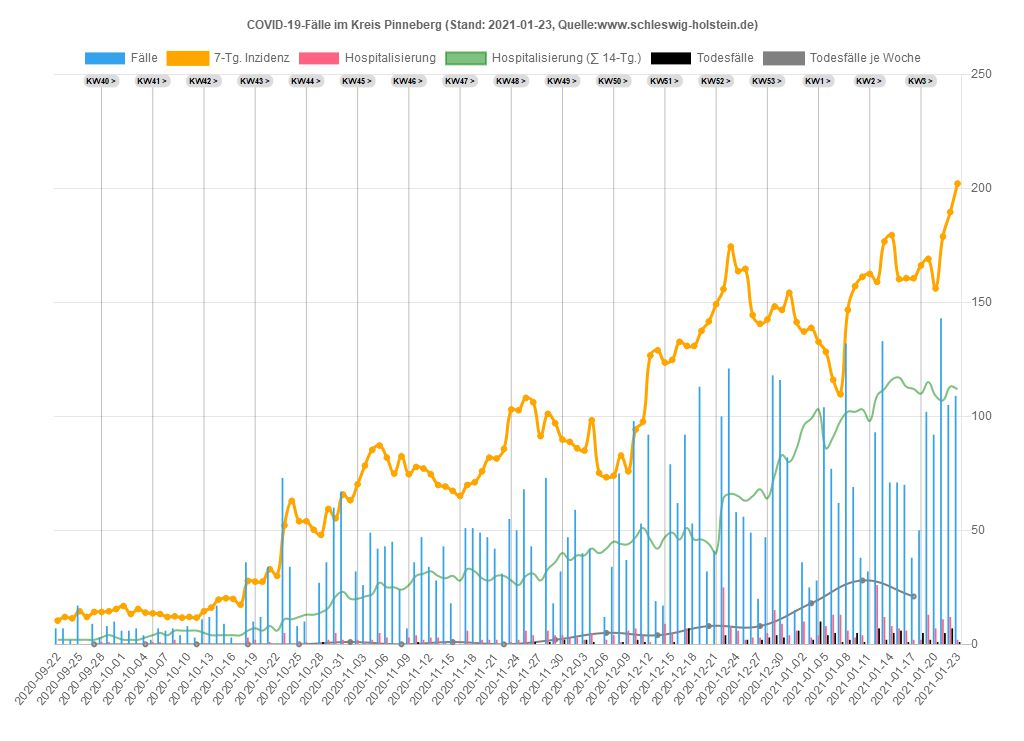
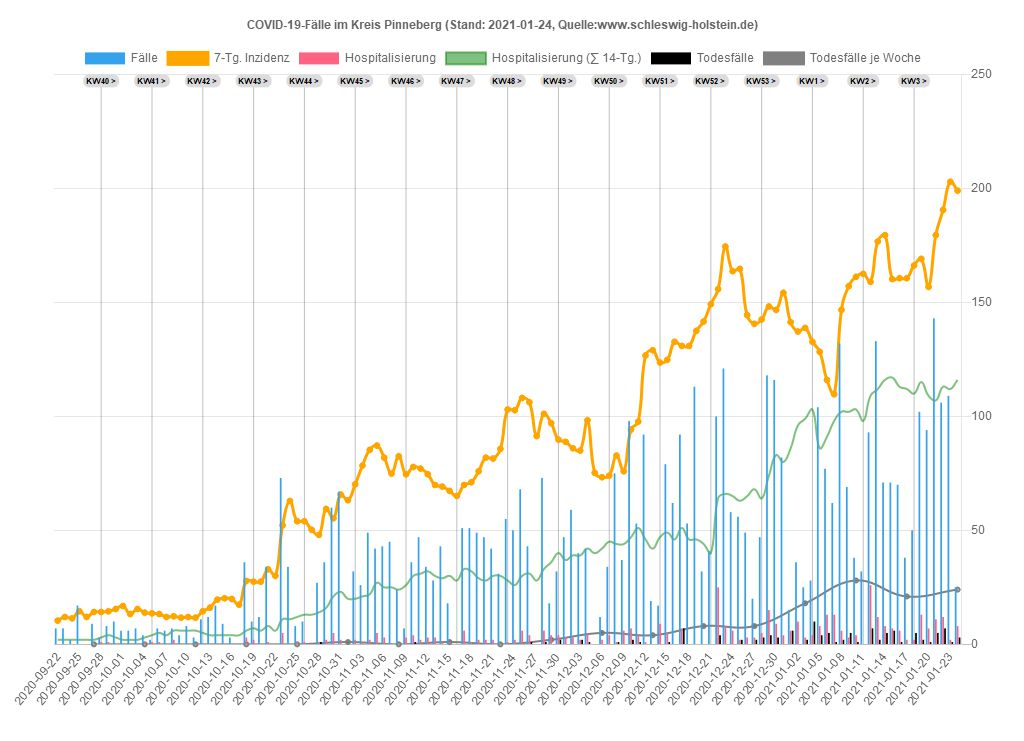
24.01.2021 20:33:32,01

Changed region(s): [[0.0312, 0.0931, 0.9375, 0.9622]]

diff --git a/sh/Data_SH.js b/sh/Data_SH.js
@@ -1,20 +1,20 @@
 var chdata={
-labels: ["2020-09-22","2020-09-23","2020-09-24","2020-09-25","2020-09-26","2020-09-27","2020-09-28","2020-09-29","2020-09-30","2020-10-01","2020-10-02","2020-10-03","2020-10-04","2020-10-05","2020-10-06","2020-10-07","2020-10-08","2020-10-09","2020-10-10","2020-10-11","2020-10-12","2020-10-13","2020-10-14","2020-10-15","2020-10-16","2020-10-17","2020-10-18","2020-10-19","2020-10-20","2020-10-21","2020-10-22","2020-10-23","2020-10-24","2020-10-25","2020-10-26","2020-10-27","2020-10-28","2020-10-29","2020-10-30","2020-10-31","2020-11-01","2020-11-02","2020-11-03","2020-11-04","2020-11-05","2020-11-06","2020-11-07","2020-11-08","2020-11-09","2020-11-10","2020-11-11","2020-11-12","2020-11-13","2020-11-14","2020-11-15","2020-11-16","2020-11-17","2020-11-18","2020-11-19","2020-11-20","2020-11-21","2020-11-22","2020-11-23","2020-11-24","2020-11-25","2020-11-26","2020-11-27","2020-11-28","2020-11-29","2020-11-30","2020-12-01","2020-12-02","2020-12-03","2020-12-04","2020-12-05","2020-12-06","2020-12-07","2020-12-08","2020-12-09","2020-12-10","2020-12-11","2020-12-12","2020-12-13","2020-12-14","2020-12-15","2020-12-16","2020-12-17","2020-12-18","2020-12-19","2020-12-20","2020-12-21","2020-12-22","2020-12-23","2020-12-24","2020-12-25","2020-12-26","2020-12-27","2020-12-28","2020-12-29","2020-12-30","2020-12-31","2021-01-01","2021-01-02","2021-01-03","2021-01-04","2021-01-05","2021-01-06","2021-01-07","2021-01-08","2021-01-09","2021-01-10","2021-01-11","2021-01-12","2021-01-13","2021-01-14","2021-01-15","2021-01-16","2021-01-17","2021-01-18","2021-01-19","2021-01-20","2021-01-21","2021-01-22","2021-01-23"],
+labels: ["2020-09-22","2020-09-23","2020-09-24","2020-09-25","2020-09-26","2020-09-27","2020-09-28","2020-09-29","2020-09-30","2020-10-01","2020-10-02","2020-10-03","2020-10-04","2020-10-05","2020-10-06","2020-10-07","2020-10-08","2020-10-09","2020-10-10","2020-10-11","2020-10-12","2020-10-13","2020-10-14","2020-10-15","2020-10-16","2020-10-17","2020-10-18","2020-10-19","2020-10-20","2020-10-21","2020-10-22","2020-10-23","2020-10-24","2020-10-25","2020-10-26","2020-10-27","2020-10-28","2020-10-29","2020-10-30","2020-10-31","2020-11-01","2020-11-02","2020-11-03","2020-11-04","2020-11-05","2020-11-06","2020-11-07","2020-11-08","2020-11-09","2020-11-10","2020-11-11","2020-11-12","2020-11-13","2020-11-14","2020-11-15","2020-11-16","2020-11-17","2020-11-18","2020-11-19","2020-11-20","2020-11-21","2020-11-22","2020-11-23","2020-11-24","2020-11-25","2020-11-26","2020-11-27","2020-11-28","2020-11-29","2020-11-30","2020-12-01","2020-12-02","2020-12-03","2020-12-04","2020-12-05","2020-12-06","2020-12-07","2020-12-08","2020-12-09","2020-12-10","2020-12-11","2020-12-12","2020-12-13","2020-12-14","2020-12-15","2020-12-16","2020-12-17","2020-12-18","2020-12-19","2020-12-20","2020-12-21","2020-12-22","2020-12-23","2020-12-24","2020-12-25","2020-12-26","2020-12-27","2020-12-28","2020-12-29","2020-12-30","2020-12-31","2021-01-01","2021-01-02","2021-01-03","2021-01-04","2021-01-05","2021-01-06","2021-01-07","2021-01-08","2021-01-09","2021-01-10","2021-01-11","2021-01-12","2021-01-13","2021-01-14","2021-01-15","2021-01-16","2021-01-17","2021-01-18","2021-01-19","2021-01-20","2021-01-21","2021-01-22","2021-01-23","2021-01-24"],
 datasets: [
 {label: 'Fälle',
 type: 'bar',
 backgroundColor: window.chartColors.blue,
-data: [38,42,63,53,15,15,38,48,49,27,50,16,24,39,54,45,79,54,26,25,65,65,65,55,90,26,88,163,111,160,136,236,142,115,164,164,280,215,313,265,161,142,236,262,220,274,233,177,215,252,247,192,296,158,161,100,294,208,264,250,153,121,145,251,256,225,180,219,71,81,244,240,245,318,234,122,179,356,340,443,429,444,144,210,506,522,489,553,440,193,280,589,673,366,177,201,188,268,576,466,357,135,264,203,265,542,537,482,523,408,143,261,399,491,422,417,358,202,239,468,480,506,457,442]},
+data: [38,42,63,53,15,15,38,48,49,27,50,16,24,39,54,45,79,54,26,25,65,65,65,55,90,26,88,163,111,160,136,236,142,115,164,164,280,215,313,265,161,142,236,262,220,274,233,177,215,252,247,192,296,158,161,100,294,208,264,250,153,121,145,251,256,225,180,219,71,81,244,240,245,318,234,122,179,356,340,443,429,444,144,210,506,522,489,553,440,193,280,589,673,366,177,201,188,268,576,466,357,135,264,203,265,542,537,482,523,408,143,261,399,491,422,417,358,202,239,468,482,507,458,441,138]},
 {label: '7-Tg. Inzidenz',
 type: 'line',
 fill: false,
 pointBackgroundColor: 'orange',
 borderColor: 'orange',
-data: [7.2,7.9,8.7,9.4,9.3,9.2,9.1,9.4,9.7,8.4,8.3,8.4,8.7,8.7,8.9,8.8,10.6,10.7,11.1,11.1,12.0,12.4,13.1,12.2,13.5,13.5,15.6,19.0,20.6,23.9,26.7,31.7,35.7,36.6,36.6,38.5,42.6,45.3,48.0,52.2,53.8,53.0,55.5,54.9,55.1,53.7,52.6,53.2,55.7,56.2,55.7,54.8,55.5,52.9,52.4,48.4,49.9,48.5,51.0,49.4,49.2,47.9,49.4,47.9,49.6,48.2,45.8,48.1,46.4,44.2,43.9,43.4,44.1,48.8,49.3,51.1,54.5,58.3,61.8,68.6,72.4,79.7,80.4,81.5,86.6,92.9,94.5,98.8,98.6,100.3,102.7,105.6,110.8,106.6,93.6,85.4,85.2,84.8,84.3,77.2,76.9,75.5,77.6,78.1,78.0,76.9,79.3,83.6,97.0,101.9,99.9,99.7,94.8,93.2,91.2,87.5,85.8,87.8,87.1,89.4,89.1,91.9,93.3,96.2]},
+data: [7.2,7.9,8.7,9.4,9.3,9.2,9.1,9.4,9.7,8.4,8.3,8.4,8.7,8.7,8.9,8.8,10.6,10.7,11.1,11.1,12.0,12.4,13.1,12.2,13.5,13.5,15.6,19.0,20.6,23.9,26.7,31.7,35.7,36.6,36.6,38.5,42.6,45.3,48.0,52.2,53.8,53.0,55.5,54.9,55.1,53.7,52.6,53.2,55.7,56.2,55.7,54.8,55.5,52.9,52.4,48.4,49.9,48.5,51.0,49.4,49.2,47.9,49.4,47.9,49.6,48.2,45.8,48.1,46.4,44.2,43.9,43.4,44.1,48.8,49.3,51.1,54.5,58.3,61.8,68.6,72.4,79.7,80.4,81.5,86.6,92.9,94.5,98.8,98.6,100.3,102.7,105.6,110.8,106.6,93.6,85.4,85.2,84.8,84.3,77.2,76.9,75.5,77.6,78.1,78.0,76.9,79.3,83.6,97.0,101.9,99.9,99.7,94.8,93.2,91.2,87.5,85.8,87.8,87.1,89.4,89.1,92.1,93.5,96.3,94.1]},
 {label: 'Hospitalisierung',
 type: 'bar',
 backgroundColor: window.chartColors.red,
-data: [1,2,7,1,0,0,2,1,3,1,1,0,4,3,1,1,4,2,0,3,5,1,1,2,4,0,9,10,8,9,12,7,5,6,7,7,11,10,11,6,3,9,19,20,15,15,5,7,13,15,21,13,17,8,17,13,23,10,15,9,7,7,13,16,26,19,12,14,15,10,12,8,10,14,3,5,24,13,26,20,14,12,6,26,27,16,20,18,8,13,13,43,35,23,17,21,26,25,46,33,33,20,34,32,51,58,35,46,34,30,22,45,69,51,59,52,32,37,36,51,53,47,34,33]},
+data: [1,2,7,1,0,0,2,1,3,1,1,0,4,3,1,1,4,2,0,3,5,1,1,2,4,0,9,10,8,9,12,7,5,6,7,7,11,10,11,6,3,9,19,20,15,15,5,7,13,15,21,13,17,8,17,13,23,10,15,9,7,7,13,16,26,19,12,14,15,10,12,8,10,14,3,5,24,13,26,20,14,12,6,26,27,16,20,18,8,13,13,43,35,23,17,21,26,25,46,33,33,20,34,32,51,58,35,46,34,30,22,45,69,51,59,52,32,37,36,51,53,47,34,33,38]},
 {label: 'Hosp. (∑ 14-Tg.)',
 type: 'line',
 fill: false,
@@ -22,17 +22,17 @@ hidden: true,
 borderColor: 'rgba(0,255,0,0.5)',
 borderWidth: 1.5,
 pointRadius: 0,
-data: [12,12,20,22,22,22,22,23,23,21,22,21,24,26,26,25,22,23,23,26,29,29,27,28,31,31,36,43,50,58,66,71,76,79,81,87,97,105,112,118,112,111,122,133,136,144,144,145,151,159,169,172,178,180,194,198,202,192,192,186,188,188,188,189,194,200,195,201,199,196,185,183,178,183,179,177,188,185,185,186,188,186,177,193,208,216,226,230,235,243,232,262,271,274,277,286,306,305,324,341,354,356,382,401,439,454,454,477,494,503,499,519,542,560,586,618,616,621,606,599,617,618,618,621]},
+data: [12,12,20,22,22,22,22,23,23,21,22,21,24,26,26,25,22,23,23,26,29,29,27,28,31,31,36,43,50,58,66,71,76,79,81,87,97,105,112,118,112,111,122,133,136,144,144,145,151,159,169,172,178,180,194,198,202,192,192,186,188,188,188,189,194,200,195,201,199,196,185,183,178,183,179,177,188,185,185,186,188,186,177,193,208,216,226,230,235,243,232,262,271,274,277,286,306,305,324,341,354,356,382,401,439,454,454,477,494,503,499,519,542,560,586,618,616,621,606,599,617,618,618,621,637]},
 {label: 'Aktuell im Krankenhaus',
 type: 'line',
 fill: false,
 pointBackgroundColor: 'green',
 borderColor: 'green',
-data: [6,6,6,6,6,6,6,11,11,11,11,14,14,15,15,14,14,14,13,13,18,18,18,21,24,24,24,24,31,31,31,31,51,51,58,58,58,58,58,58,58,94,110,114,119,118,124,120,126,116,113,119,112,116,116,148,145,151,141,141,141,141,155,142,122,113,118,118,118,124,114,110,109,114,114,114,131,122,128,132,133,133,133,177,181,194,201,212,236,250,275,271,267,262,262,262,262,309,318,322,346,346,376,376,390,412,376,379,364,364,364,384,362,373,382,398,426,473,454,457,457,438,447,461]},
+data: [6,6,6,6,6,6,6,11,11,11,11,14,14,15,15,14,14,14,13,13,18,18,18,21,24,24,24,24,31,31,31,31,51,51,58,58,58,58,58,58,58,94,110,114,119,118,124,120,126,116,113,119,112,116,116,148,145,151,141,141,141,141,155,142,122,113,118,118,118,124,114,110,109,114,114,114,131,122,128,132,133,133,133,177,181,194,201,212,236,250,275,271,267,262,262,262,262,309,318,322,346,346,376,376,390,412,376,379,364,364,364,384,362,373,382,398,426,473,454,457,457,438,447,461,485]},
 {label: 'Todesfälle',
 type: 'bar',
 backgroundColor: 'black',
-data: [0,0,0,0,0,0,0,1,0,0,0,0,0,0,0,0,0,0,0,0,0,1,0,0,0,0,0,0,0,0,1,0,0,3,0,0,3,4,1,0,2,6,7,2,2,6,0,1,4,3,5,0,5,1,3,5,0,2,2,2,1,0,3,4,1,3,3,1,4,2,3,1,4,1,0,1,4,2,5,7,7,1,2,2,6,7,11,3,2,0,9,15,4,3,4,7,10,18,17,14,2,9,7,3,29,22,17,6,14,11,9,15,25,15,15,24,3,1,23,16,16,18,16,3]},
+data: [0,0,0,0,0,0,0,1,0,0,0,0,0,0,0,0,0,0,0,0,0,1,0,0,0,0,0,0,0,0,1,0,0,3,0,0,3,4,1,0,2,6,7,2,2,6,0,1,4,3,5,0,5,1,3,5,0,2,2,2,1,0,3,4,1,3,3,1,4,2,3,1,4,1,0,1,4,2,5,7,7,1,2,2,6,7,11,3,2,0,9,15,4,3,4,7,10,18,17,14,2,9,7,3,29,22,17,6,14,11,9,15,25,15,15,24,3,1,23,16,16,18,16,3,11]},
 {label: 'Todesfälle je Woche',
 type: 'line',
 fill: false,
@@ -41,6 +41,6 @@ borderColor: 'rgba(128,128,128,1)',
 borderWidth: 2,
 pointRadius: 2,
 yAxisID: 'first-y-axis',
-data: [,,,,,0,,,,,,,1,,,,,,,0,,,,,,,1,,,,,,,4,,,,,,,10,,,,,,,24,,,,,,,21,,,,,,,12,,,,,,,19,,,,,,,12,,,,,,,28,,,,,,,31,,,,,,,52,,,,,,,70,,,,,,,108,,,,,,,98,,,,,,]},
+data: [,,,,,0,,,,,,,1,,,,,,,0,,,,,,,1,,,,,,,4,,,,,,,10,,,,,,,24,,,,,,,21,,,,,,,12,,,,,,,19,,,,,,,12,,,,,,,28,,,,,,,31,,,,,,,52,,,,,,,70,,,,,,,108,,,,,,,98,,,,,,,103]},
 ]};
 

diff --git a/sh/Kreis_PI.js b/sh/Kreis_PI.js
@@ -1,23 +1,23 @@
 var chdata={
-labels: ["2020-09-22","2020-09-23","2020-09-24","2020-09-25","2020-09-26","2020-09-27","2020-09-28","2020-09-29","2020-09-30","2020-10-01","2020-10-02","2020-10-03","2020-10-04","2020-10-05","2020-10-06","2020-10-07","2020-10-08","2020-10-09","2020-10-10","2020-10-11","2020-10-12","2020-10-13","2020-10-14","2020-10-15","2020-10-16","2020-10-17","2020-10-18","2020-10-19","2020-10-20","2020-10-21","2020-10-22","2020-10-23","2020-10-24","2020-10-25","2020-10-26","2020-10-27","2020-10-28","2020-10-29","2020-10-30","2020-10-31","2020-11-01","2020-11-02","2020-11-03","2020-11-04","2020-11-05","2020-11-06","2020-11-07","2020-11-08","2020-11-09","2020-11-10","2020-11-11","2020-11-12","2020-11-13","2020-11-14","2020-11-15","2020-11-16","2020-11-17","2020-11-18","2020-11-19","2020-11-20","2020-11-21","2020-11-22","2020-11-23","2020-11-24","2020-11-25","2020-11-26","2020-11-27","2020-11-28","2020-11-29","2020-11-30","2020-12-01","2020-12-02","2020-12-03","2020-12-04","2020-12-05","2020-12-06","2020-12-07","2020-12-08","2020-12-09","2020-12-10","2020-12-11","2020-12-12","2020-12-13","2020-12-14","2020-12-15","2020-12-16","2020-12-17","2020-12-18","2020-12-19","2020-12-20","2020-12-21","2020-12-22","2020-12-23","2020-12-24","2020-12-25","2020-12-26","2020-12-27","2020-12-28","2020-12-29","2020-12-30","2020-12-31","2021-01-01","2021-01-02","2021-01-03","2021-01-04","2021-01-05","2021-01-06","2021-01-07","2021-01-08","2021-01-09","2021-01-10","2021-01-11","2021-01-12","2021-01-13","2021-01-14","2021-01-15","2021-01-16","2021-01-17","2021-01-18","2021-01-19","2021-01-20","2021-01-21","2021-01-22","2021-01-23"],
+labels: ["2020-09-22","2020-09-23","2020-09-24","2020-09-25","2020-09-26","2020-09-27","2020-09-28","2020-09-29","2020-09-30","2020-10-01","2020-10-02","2020-10-03","2020-10-04","2020-10-05","2020-10-06","2020-10-07","2020-10-08","2020-10-09","2020-10-10","2020-10-11","2020-10-12","2020-10-13","2020-10-14","2020-10-15","2020-10-16","2020-10-17","2020-10-18","2020-10-19","2020-10-20","2020-10-21","2020-10-22","2020-10-23","2020-10-24","2020-10-25","2020-10-26","2020-10-27","2020-10-28","2020-10-29","2020-10-30","2020-10-31","2020-11-01","2020-11-02","2020-11-03","2020-11-04","2020-11-05","2020-11-06","2020-11-07","2020-11-08","2020-11-09","2020-11-10","2020-11-11","2020-11-12","2020-11-13","2020-11-14","2020-11-15","2020-11-16","2020-11-17","2020-11-18","2020-11-19","2020-11-20","2020-11-21","2020-11-22","2020-11-23","2020-11-24","2020-11-25","2020-11-26","2020-11-27","2020-11-28","2020-11-29","2020-11-30","2020-12-01","2020-12-02","2020-12-03","2020-12-04","2020-12-05","2020-12-06","2020-12-07","2020-12-08","2020-12-09","2020-12-10","2020-12-11","2020-12-12","2020-12-13","2020-12-14","2020-12-15","2020-12-16","2020-12-17","2020-12-18","2020-12-19","2020-12-20","2020-12-21","2020-12-22","2020-12-23","2020-12-24","2020-12-25","2020-12-26","2020-12-27","2020-12-28","2020-12-29","2020-12-30","2020-12-31","2021-01-01","2021-01-02","2021-01-03","2021-01-04","2021-01-05","2021-01-06","2021-01-07","2021-01-08","2021-01-09","2021-01-10","2021-01-11","2021-01-12","2021-01-13","2021-01-14","2021-01-15","2021-01-16","2021-01-17","2021-01-18","2021-01-19","2021-01-20","2021-01-21","2021-01-22","2021-01-23","2021-01-24"],
 datasets: [
 {label: 'Fälle',
 type: 'bar',
 backgroundColor: window.chartColors.blue,
 yAxisID: 'first-y-axis',
-data: [7,7,2,17,0,9,3,8,10,6,6,7,4,2,7,6,7,4,8,3,11,12,17,9,3,0,36,10,12,34,0,73,34,8,10,0,27,36,60,67,0,32,26,49,42,43,45,24,7,36,47,34,28,43,18,0,51,51,49,47,42,31,55,50,68,43,0,73,18,32,47,59,40,42,0,12,34,75,37,98,53,92,19,17,79,62,92,53,113,32,41,100,121,58,56,49,20,47,118,116,82,15,36,25,28,104,77,62,132,69,38,32,93,133,71,71,70,38,50,102,92,143,105,109]},
+data: [7,7,2,17,0,9,3,8,10,6,6,7,4,2,7,6,7,4,8,3,11,12,17,9,3,0,36,10,12,34,0,73,34,8,10,0,27,36,60,67,0,32,26,49,42,43,45,24,7,36,47,34,28,43,18,0,51,51,49,47,42,31,55,50,68,43,0,73,18,32,47,59,40,42,0,12,34,75,37,98,53,92,19,17,79,62,92,53,113,32,41,100,121,58,56,49,20,47,118,116,82,15,36,25,28,104,77,62,132,69,38,32,93,133,71,71,70,38,50,102,94,143,106,109,25]},
 {label: '7-Tg. Inzidenz',
 type: 'line',
 fill: false,
 pointBackgroundColor: 'orange',
 borderColor: 'orange',
 yAxisID: 'first-y-axis',
-data: [10.4,12.0,11.4,14.5,12.0104175,14.2,14.2,14.5,15.5,16.8,13.3,15.5,13.9,13.6,13.3,12.0,12.3,11.7,12.0,11.7,14.5,16.1,19.6,20.2,19.9,17.383499,27.8,27.5,27.5,32.9,30.0260436,52.2,62.9,54.0,54.0,50.2541151,48.0,59.4,55.3,65.7,63.2127235,70.2,78.4,85.3,87.2,81.9,74.9,82.5,74.6,77.8,77.1,74.6,69.9,69.2,67.3,65.1091052,69.9,71.1,75.9,81.9,81.5,85.7,103.0,102.7,108.1,106.2,91.3423854,101.1,97.0,89.8,88.8,86.0,85.0,98.3,75.2231409,73.3,74.0,82.8,75.9,94.2,97.7,126.7,129.0,123.6,124.8,132.7,130.9,130.9,137.5,141.6,149.2,155.8,174.5,163.7,164.7,144.4,140.6,142.5,148.2,146.7,154.2,141.3,137.2,138.8,132.7,128.3,116.0,109.7,146.7,157.1,161.2,162.5,159.0,176.7,179.5,160.2,160.6,160.6,166.2,169.1,156.1,178.9,189.6,202.1]},
+data: [10.4,12.0,11.4,14.5,12.0104175,14.2,14.2,14.5,15.5,16.8,13.3,15.5,13.9,13.6,13.3,12.0,12.3,11.7,12.0,11.7,14.5,16.1,19.6,20.2,19.9,17.383499,27.8,27.5,27.5,32.9,30.0260436,52.2,62.9,54.0,54.0,50.2541151,48.0,59.4,55.3,65.7,63.2127235,70.2,78.4,85.3,87.2,81.9,74.9,82.5,74.6,77.8,77.1,74.6,69.9,69.2,67.3,65.1091052,69.9,71.1,75.9,81.9,81.5,85.7,103.0,102.7,108.1,106.2,91.3423854,101.1,97.0,89.8,88.8,86.0,85.0,98.3,75.2231409,73.3,74.0,82.8,75.9,94.2,97.7,126.7,129.0,123.6,124.8,132.7,130.9,130.9,137.5,141.6,149.2,155.8,174.5,163.7,164.7,144.4,140.6,142.5,148.2,146.7,154.2,141.3,137.2,138.8,132.7,128.3,116.0,109.7,146.7,157.1,161.2,162.5,159.0,176.7,179.5,160.2,160.6,160.6,166.2,169.1,156.8,179.5,190.6,202.9,199.0]},
 {label: 'Hospitalisierung',
 type: 'bar',
 backgroundColor: window.chartColors.red,
 yAxisID: 'first-y-axis',
-data: [0,0,0,0,0,0,1,1,0,0,0,0,1,1,1,-1,2,0,0,0,0,0,0,0,0,0,3,2,0,1,0,5,0,1,1,0,1,2,5,2,0,2,1,2,5,3,0,0,3,4,2,3,3,1,1,0,6,1,2,2,2,0,1,2,6,4,0,6,4,4,3,3,2,5,0,2,4,1,6,7,4,1,0,9,5,0,7,0,0,0,0,25,8,6,2,3,3,5,15,9,4,6,10,3,4,8,13,13,6,3,4,0,26,12,8,7,6,2,2,13,7,11,12,2]},
+data: [0,0,0,0,0,0,1,1,0,0,0,0,1,1,1,-1,2,0,0,0,0,0,0,0,0,0,3,2,0,1,0,5,0,1,1,0,1,2,5,2,0,2,1,2,5,3,0,0,3,4,2,3,3,1,1,0,6,1,2,2,2,0,1,2,6,4,0,6,4,4,3,3,2,5,0,2,4,1,6,7,4,1,0,9,5,0,7,0,0,0,0,25,8,6,2,3,3,5,15,9,4,6,10,3,4,8,13,13,6,3,4,0,26,12,8,7,6,2,2,13,7,11,12,2,8]},
 {label: 'Hospitalisierung (∑ 14-Tg.)',
 type: 'line',
 pointRadius: 0,
@@ -25,12 +25,12 @@ fill: false,
 borderColor: 'rgba(0,128,0,0.5)',
 borderWidth: 2,
 yAxisID: 'first-y-axis',
-data: [2,2,2,2,2,2,3,4,3,2,2,2,3,4,5,4,6,6,6,6,5,4,4,4,4,4,6,7,6,8,6,11,11,12,13,13,14,16,21,23,20,20,21,22,27,25,25,24,26,30,31,32,30,29,30,28,33,32,29,28,30,30,28,26,30,31,28,33,36,40,37,39,39,42,40,42,45,44,44,47,51,46,42,47,49,46,51,46,46,44,40,64,66,65,63,65,68,64,74,83,80,86,96,99,103,86,91,98,102,102,103,98,109,112,116,117,113,112,110,115,109,107,113,112]},
+data: [2,2,2,2,2,2,3,4,3,2,2,2,3,4,5,4,6,6,6,6,5,4,4,4,4,4,6,7,6,8,6,11,11,12,13,13,14,16,21,23,20,20,21,22,27,25,25,24,26,30,31,32,30,29,30,28,33,32,29,28,30,30,28,26,30,31,28,33,36,40,37,39,39,42,40,42,45,44,44,47,51,46,42,47,49,46,51,46,46,44,40,64,66,65,63,65,68,64,74,83,80,86,96,99,103,86,91,98,102,102,103,98,109,112,116,117,113,112,110,115,109,107,113,112,116]},
 {label: 'Todesfälle',
 type: 'bar',
 backgroundColor: 'black',
 yAxisID: 'first-y-axis',
-data: [0,0,0,0,0,0,0,0,0,0,0,0,0,0,0,0,0,0,0,0,0,0,0,0,0,0,0,0,0,0,0,0,0,0,0,0,1,0,0,0,0,0,0,0,0,0,0,0,0,1,0,0,0,0,0,0,0,0,0,0,0,0,0,0,0,1,0,1,0,2,0,0,2,1,0,0,0,1,0,2,1,0,0,0,1,0,7,0,0,0,0,4,0,0,2,0,2,3,4,3,0,6,0,2,10,4,5,1,2,5,1,0,7,2,5,6,1,0,5,2,1,5,7,1]},
+data: [0,0,0,0,0,0,0,0,0,0,0,0,0,0,0,0,0,0,0,0,0,0,0,0,0,0,0,0,0,0,0,0,0,0,0,0,1,0,0,0,0,0,0,0,0,0,0,0,0,1,0,0,0,0,0,0,0,0,0,0,0,0,0,0,0,1,0,1,0,2,0,0,2,1,0,0,0,1,0,2,1,0,0,0,1,0,7,0,0,0,0,4,0,0,2,0,2,3,4,3,0,6,0,2,10,4,5,1,2,5,1,0,7,2,5,6,1,0,5,2,1,5,7,1,3]},
 {label: 'Todesfälle je Woche',
 type: 'line',
 fill: false,
@@ -39,6 +39,6 @@ borderColor: 'rgba(128,128,128,1)',
 borderWidth: 2,
 pointRadius: 2,
 yAxisID: 'first-y-axis',
-data: [,,,,,0,,,,,,,0,,,,,,,0,,,,,,,0,,,,,,,0,,,,,,,1,,,,,,,0,,,,,,,1,,,,,,,0,,,,,,,2,,,,,,,5,,,,,,,4,,,,,,,8,,,,,,,8,,,,,,,18,,,,,,,28,,,,,,,21,,,,,,]},
+data: [,,,,,0,,,,,,,0,,,,,,,0,,,,,,,0,,,,,,,0,,,,,,,1,,,,,,,0,,,,,,,1,,,,,,,0,,,,,,,2,,,,,,,5,,,,,,,4,,,,,,,8,,,,,,,8,,,,,,,18,,,,,,,28,,,,,,,21,,,,,,,24]},
 ]};
 

diff --git a/sh/Data_SH_Alter.js b/sh/Data_SH_Alter.js
@@ -134,7 +134,8 @@ var chdata={
 				{x: '2021-01-20', y: 'Alle', v: 88.0578475, casesum: 2557},{x: '2021-01-20', y: '00-09', v: 35.8364301, casesum: 92},{x: '2021-01-20', y: '10-19', v: 71.0126917, casesum: 196},{x: '2021-01-20', y: '20-29', v: 127.82768, casesum: 409},{x: '2021-01-20', y: '30-39', v: 107.114485, casesum: 360},{x: '2021-01-20', y: '40-49', v: 94.4753215, casesum: 333},{x: '2021-01-20', y: '50-59', v: 72.2646906, casesum: 358},{x: '2021-01-20', y: '60-69', v: 58.3170577, casesum: 212},{x: '2021-01-20', y: '70-79', v: 63.1904059, casesum: 187},{x: '2021-01-20', y: '80-89', v: 152.648707, casesum: 273},{x: '2021-01-20', y: '90+', v: 475.430316, casesum: 137},
 				{x: '2021-01-21', y: 'Alle', v: 91.9148983, casesum: 2669},{x: '2021-01-21', y: '00-09', v: 35.8364301, casesum: 92},{x: '2021-01-21', y: '10-19', v: 69.2011434, casesum: 191},{x: '2021-01-21', y: '20-29', v: 124.389771, casesum: 398},{x: '2021-01-21', y: '30-39', v: 115.743151, casesum: 389},{x: '2021-01-21', y: '40-49', v: 99.0146763, casesum: 349},{x: '2021-01-21', y: '50-59', v: 76.5036809, casesum: 379},{x: '2021-01-21', y: '60-69', v: 62.9934256, casesum: 229},{x: '2021-01-21', y: '70-79', v: 68.259155, casesum: 202},{x: '2021-01-21', y: '80-89', v: 170.541595, casesum: 305},{x: '2021-01-21', y: '90+', v: 468.489728, casesum: 135},
 				{x: '2021-01-22', y: 'Alle', v: 90.9850736, casesum: 2642},{x: '2021-01-22', y: '00-09', v: 36.2259565, casesum: 93},{x: '2021-01-22', y: '10-19', v: 68.1142145, casesum: 188},{x: '2021-01-22', y: '20-29', v: 119.389177, casesum: 382},{x: '2021-01-22', y: '30-39', v: 111.875128, casesum: 376},{x: '2021-01-22', y: '40-49', v: 93.9079022, casesum: 331},{x: '2021-01-22', y: '50-59', v: 74.8888274, casesum: 371},{x: '2021-01-22', y: '60-69', v: 60.5177014, casesum: 220},{x: '2021-01-22', y: '70-79', v: 64.2041557, casesum: 190},{x: '2021-01-22', y: '80-89', v: 186.197873, casesum: 333},{x: '2021-01-22', y: '90+', v: 548.306496, casesum: 158},
-				{x: '2021-01-23', y: 'Alle', v: 94.5666207, casesum: 2746},{x: '2021-01-23', y: '00-09', v: 38.563115, casesum: 99},{x: '2021-01-23', y: '10-19', v: 74.9980979, casesum: 207},{x: '2021-01-23', y: '20-29', v: 118.139029, casesum: 378},{x: '2021-01-23', y: '30-39', v: 113.95791, casesum: 383},{x: '2021-01-23', y: '40-49', v: 99.298386, casesum: 350},{x: '2021-01-23', y: '50-59', v: 78.320391, casesum: 388},{x: '2021-01-23', y: '60-69', v: 62.1681842, casesum: 226},{x: '2021-01-23', y: '70-79', v: 65.8937387, casesum: 195},{x: '2021-01-23', y: '80-89', v: 202.972456, casesum: 363},{x: '2021-01-23', y: '90+', v: 544.836202, casesum: 157}
+				{x: '2021-01-23', y: 'Alle', v: 94.5666207, casesum: 2746},{x: '2021-01-23', y: '00-09', v: 38.563115, casesum: 99},{x: '2021-01-23', y: '10-19', v: 74.9980979, casesum: 207},{x: '2021-01-23', y: '20-29', v: 118.139029, casesum: 378},{x: '2021-01-23', y: '30-39', v: 113.95791, casesum: 383},{x: '2021-01-23', y: '40-49', v: 99.298386, casesum: 350},{x: '2021-01-23', y: '50-59', v: 78.320391, casesum: 388},{x: '2021-01-23', y: '60-69', v: 62.1681842, casesum: 226},{x: '2021-01-23', y: '70-79', v: 65.8937387, casesum: 195},{x: '2021-01-23', y: '80-89', v: 202.972456, casesum: 363},{x: '2021-01-23', y: '90+', v: 544.836202, casesum: 157},
+				{x: '2021-01-24', y: 'Alle', v: 91.9148983, casesum: 2669},{x: '2021-01-24', y: '00-09', v: 38.563115, casesum: 99},{x: '2021-01-24', y: '10-19', v: 69.9257628, casesum: 193},{x: '2021-01-24', y: '20-29', v: 120.951863, casesum: 387},{x: '2021-01-24', y: '30-39', v: 110.684967, casesum: 372},{x: '2021-01-24', y: '40-49', v: 96.7449989, casesum: 341},{x: '2021-01-24', y: '50-59', v: 78.1185343, casesum: 387},{x: '2021-01-24', y: '60-69', v: 61.0678623, casesum: 222},{x: '2021-01-24', y: '70-79', v: 61.8387394, casesum: 183},{x: '2021-01-24', y: '80-89', v: 189.55279, casesum: 339},{x: '2021-01-24', y: '90+', v: 506.662965, casesum: 146}
 			],
 			backgroundColor: function(context) {
 				return inzColor(context.dataset.data[context.dataIndex].v)
@@ -142,7 +143,7 @@ var chdata={
 			width: function(context) {
 				const a = context.chart.chartArea
 				if (!a) return 0
-				return (a.right - a.left) / 131.5
+				return (a.right - a.left) / 132.5
 			},
 			height: function(context) {
 				const a = context.chart.chartArea
@@ -154,7 +155,7 @@ var chdata={
 	options: {
 		legend: { display: false },
 		scales: {
-			xAxes: [{type: 'category', labels: ["2020-09-15","2020-09-16","2020-09-17","2020-09-18","2020-09-19","2020-09-20","2020-09-21","2020-09-22","2020-09-23","2020-09-24","2020-09-25","2020-09-26","2020-09-27","2020-09-28","2020-09-29","2020-09-30","2020-10-01","2020-10-02","2020-10-03","2020-10-04","2020-10-05","2020-10-06","2020-10-07","2020-10-08","2020-10-09","2020-10-10","2020-10-11","2020-10-12","2020-10-13","2020-10-14","2020-10-15","2020-10-16","2020-10-17","2020-10-18","2020-10-19","2020-10-20","2020-10-21","2020-10-22","2020-10-23","2020-10-24","2020-10-25","2020-10-26","2020-10-27","2020-10-28","2020-10-29","2020-10-30","2020-10-31","2020-11-01","2020-11-02","2020-11-03","2020-11-04","2020-11-05","2020-11-06","2020-11-07","2020-11-08","2020-11-09","2020-11-10","2020-11-11","2020-11-12","2020-11-13","2020-11-14","2020-11-15","2020-11-16","2020-11-17","2020-11-18","2020-11-19","2020-11-20","2020-11-21","2020-11-22","2020-11-23","2020-11-24","2020-11-25","2020-11-26","2020-11-27","2020-11-28","2020-11-29","2020-11-30","2020-12-01","2020-12-02","2020-12-03","2020-12-04","2020-12-05","2020-12-06","2020-12-07","2020-12-08","2020-12-09","2020-12-10","2020-12-11","2020-12-12","2020-12-13","2020-12-14","2020-12-15","2020-12-16","2020-12-17","2020-12-18","2020-12-19","2020-12-20","2020-12-21","2020-12-22","2020-12-23","2020-12-24","2020-12-25","2020-12-26","2020-12-27","2020-12-28","2020-12-29","2020-12-30","2020-12-31","2021-01-01","2021-01-02","2021-01-03","2021-01-04","2021-01-05","2021-01-06","2021-01-07","2021-01-08","2021-01-09","2021-01-10","2021-01-11","2021-01-12","2021-01-13","2021-01-14","2021-01-15","2021-01-16","2021-01-17","2021-01-18","2021-01-19","2021-01-20","2021-01-21","2021-01-22","2021-01-23",], ticks: {display: true},gridlines:{display:false}}],
+			xAxes: [{type: 'category', labels: ["2020-09-15","2020-09-16","2020-09-17","2020-09-18","2020-09-19","2020-09-20","2020-09-21","2020-09-22","2020-09-23","2020-09-24","2020-09-25","2020-09-26","2020-09-27","2020-09-28","2020-09-29","2020-09-30","2020-10-01","2020-10-02","2020-10-03","2020-10-04","2020-10-05","2020-10-06","2020-10-07","2020-10-08","2020-10-09","2020-10-10","2020-10-11","2020-10-12","2020-10-13","2020-10-14","2020-10-15","2020-10-16","2020-10-17","2020-10-18","2020-10-19","2020-10-20","2020-10-21","2020-10-22","2020-10-23","2020-10-24","2020-10-25","2020-10-26","2020-10-27","2020-10-28","2020-10-29","2020-10-30","2020-10-31","2020-11-01","2020-11-02","2020-11-03","2020-11-04","2020-11-05","2020-11-06","2020-11-07","2020-11-08","2020-11-09","2020-11-10","2020-11-11","2020-11-12","2020-11-13","2020-11-14","2020-11-15","2020-11-16","2020-11-17","2020-11-18","2020-11-19","2020-11-20","2020-11-21","2020-11-22","2020-11-23","2020-11-24","2020-11-25","2020-11-26","2020-11-27","2020-11-28","2020-11-29","2020-11-30","2020-12-01","2020-12-02","2020-12-03","2020-12-04","2020-12-05","2020-12-06","2020-12-07","2020-12-08","2020-12-09","2020-12-10","2020-12-11","2020-12-12","2020-12-13","2020-12-14","2020-12-15","2020-12-16","2020-12-17","2020-12-18","2020-12-19","2020-12-20","2020-12-21","2020-12-22","2020-12-23","2020-12-24","2020-12-25","2020-12-26","2020-12-27","2020-12-28","2020-12-29","2020-12-30","2020-12-31","2021-01-01","2021-01-02","2021-01-03","2021-01-04","2021-01-05","2021-01-06","2021-01-07","2021-01-08","2021-01-09","2021-01-10","2021-01-11","2021-01-12","2021-01-13","2021-01-14","2021-01-15","2021-01-16","2021-01-17","2021-01-18","2021-01-19","2021-01-20","2021-01-21","2021-01-22","2021-01-23","2021-01-24",], ticks: {display: true},gridlines:{display:false}}],
 			yAxes: [{type: 'category', labels: ["Alle","00-09","10-19","20-29","30-39","40-49","50-59","60-69","70-79","80-89","90+"], offset:true, ticks: {display: true},gridlines:{display:false}}],
 		},
 	}

diff --git a/sh/index_sh_alter.html b/sh/index_sh_alter.html
@@ -5,7 +5,7 @@
 <meta property="og:image" content="index_sh_alter.jpg" />
 <meta property="og:type" content="website" />
 <meta property="og:locale" content="de_DE" />
-<meta property="og:updated_time" content="2021-01-24T17:02:07+01:00" />
+<meta property="og:updated_time" content="2021-01-24T20:33:30+01:00" />
 <title>Altersverteilung der COVID-19-Fälle in Schleswig-Holstein</title>
 <link rel="stylesheet" href="../css/style.css" media="screen" type="text/css">
 <link rel="stylesheet" media="screen" href="Chart.min.css"> 

diff --git a/sh/index_pi_alter.html b/sh/index_pi_alter.html
@@ -5,7 +5,7 @@
 <meta property="og:image" content="index_pi_alter.jpg" />
 <meta property="og:type" content="website" />
 <meta property="og:locale" content="de_DE" />
-<meta property="og:updated_time" content="2021-01-24T17:02:07+01:00" />
+<meta property="og:updated_time" content="2021-01-24T20:33:30+01:00" />
 <title>Altersverteilung der COVID-19-Fälle im Kreis Pinneberg</title>
 <link rel="stylesheet" href="../css/style.css" media="screen" type="text/css">
 <link rel="stylesheet" media="screen" href="Chart.min.css"> 

diff --git a/sh/index.html b/sh/index.html
@@ -5,7 +5,7 @@
 <meta property="og:image" content="index.jpg" />
 <meta property="og:type" content="website" />
 <meta property="og:locale" content="de_DE" />
-<meta property="og:updated_time" content="2021-01-24T17:02:07+01:00" />
+<meta property="og:updated_time" content="2021-01-24T20:33:30+01:00" />
 <title>COVID-19-Fälle im Kreis Pinneberg</title>
 <link rel="stylesheet" href="../css/style.css" media="screen" type="text/css">
 <link rel="stylesheet" media="screen" href="Chart.min.css"> 
